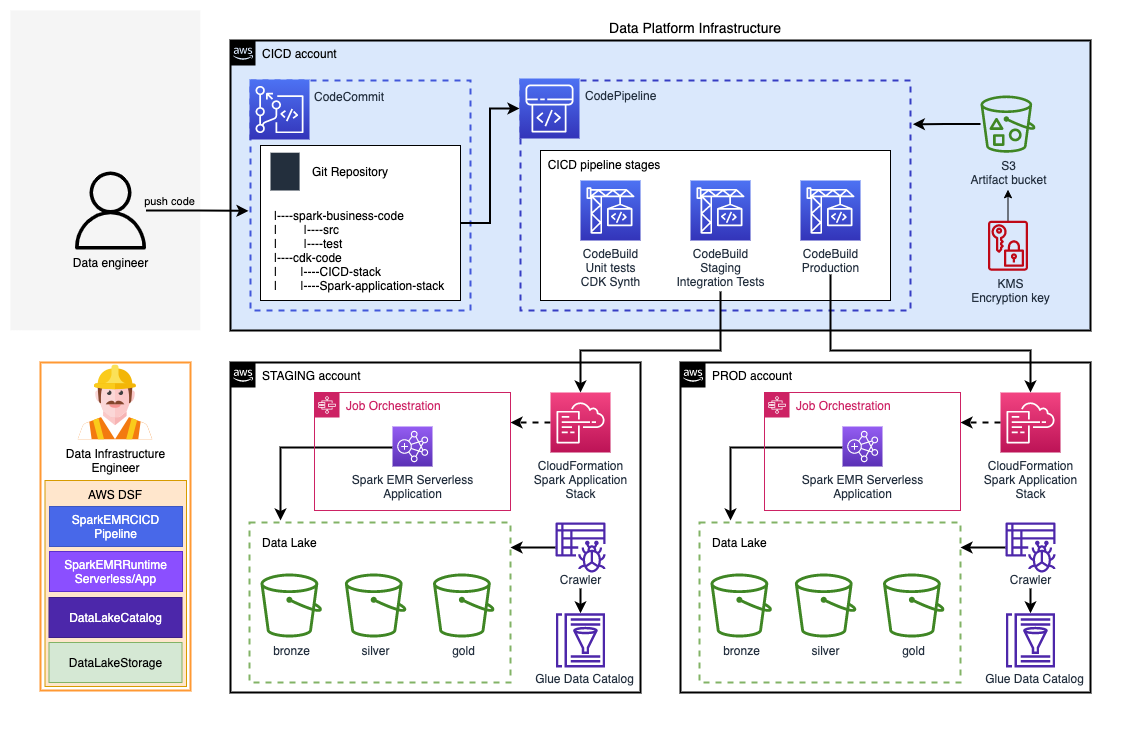
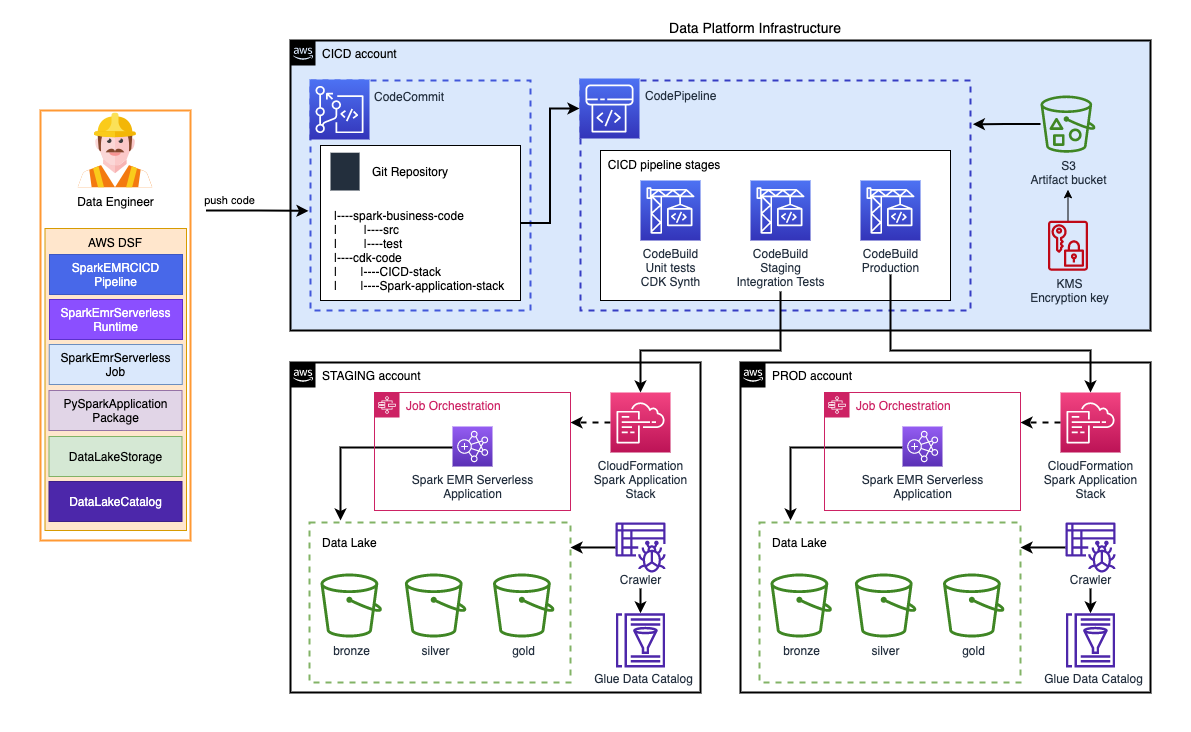
improve doc

diff --git a/website/docs/constructs/library/spark-emr-serverless-job.md b/website/docs/constructs/library/spark-emr-serverless-job.md
@@ -1,22 +1,20 @@
 ---
 sidebar_position: 6
-sidebar_label: Spark Job
+sidebar_label: Spark EMR Serverless Job
 ---
 
-# Spark job
+# Spark EMR Serverless job
 
-A construct to create a Spark job that is orchestrated through AWS Step Functions state machine. The state machine can submit a job with either [Amazon EMR on EKS](https://docs.aws.amazon.com/emr/latest/EMR-on-EKS-DevelopmentGuide/getting-started.html) or [Amazon EMR Serverless](https://docs.aws.amazon.com/emr/latest/EMR-Serverless-UserGuide/getting-started.html). 
+An [Amazon EMR Serverless](https://docs.aws.amazon.com/emr/latest/EMR-Serverless-UserGuide/getting-started.html) Spark job orchestrated through AWS Step Functions state machine. 
 
 ## Overview
 
 The construct creates an AWS Step Functions state machine that is used to submit a Spark job and orchestrate the lifecycle of the job. The construct leverages the [AWS SDK service integrations](https://docs.aws.amazon.com/step-functions/latest/dg/supported-services-awssdk.html) to submit the jobs. The state machine can take a cron expression to trigger the job at a given interval. The schema below shows the state machine:
 
 
-![Spark Job State Machine](../../../static/img/adsf-spark-job-statemachine.svg)
+![Spark EMR Serverless Job](../../../static/img/adsf-spark-emr-serverless-job.png)
 
 ## Usage
-
-### Define an EMR Serverless Spark Job
 
 The example stack below shows how to use `EmrServerlessSparkJob` construct. The stack also contains a `SparkEmrServerlessRuntime` to show how to create an EMR Serverless Application and pass it as an argument to the `Spark job` and use it as a runtime for the job. 
 ```python
@@ -77,45 +75,5 @@ class NightlyJobStack(Stack):
         nightly_job = EmrServerlessSparkJob (scope=scope, id='nightly_job', props=nightly_job_props)
 
         CfnOutput(scope=scope, id='job-state-machine', value=nightly_job.state_machine.state_machine_arn )
-
-```
-
-
-### Define an EMR on EKS Spark Job
-
-The stack defined below shows a usage example of the `EmrOnEksSparkJob` construct.
-
-```python
-
-from aws_cdk import (
-    CfnOutput,
-    Stack,
-)
-from constructs import Construct
-from aws_dsf import ( 
-    EmrOnEksSparkJob,
-    EmrOnEksSparkJobProps
-)
-
-class DailyJobStack(Stack):
-
-    def __init__(self, scope: Construct, construct_id: str, **kwargs) -> None:
-        super().__init__(scope, construct_id, **kwargs)
-
-
-        daily_job_props = EmrOnEksSparkJobProps (
-            name='daily_job',
-            virtual_cluster_id='exampleId123',
-            execution_role_arn='your-role-arn',
-            execution_timeout_minutes='30',
-            s3_log_uri='s3://emr-job-logs-EXAMPLE/logs',
-            spark_submit_entry_point= 'local:///usr/lib/spark/examples/src/main/python/pi.py',
-            spark_submit_parameters= '--conf spark.executor.instances=2 --conf spark.executor.memory=2G --conf spark.driver.memory=2G --conf spark.executor.cores=4'
-        )
-        
-        
-        daily_job = EmrOnEksSparkJob (scope=scope, id='nightly_job', props=daily_job_props)
-
-        CfnOutput(scope=scope, id='job-state-machine-daily-job', value=daily_job.state_machine.state_machine_arn )
 
 ```

diff --git a/website/docs/examples/spark-data-lake.md b/website/docs/examples/spark-data-lake.md
@@ -1,0 +1,31 @@
+---
+sidebar_position: 2
+sidebar_label: Spark Data Lake example
+---
+
+# Spark Data Lake
+
+Build a data lake, and process data with Spark.
+
+This example demonstrates the benefits of reusing AWS DSF components to remove undifferentiated infrastructure setup and maintenance tasks from data engineers so they can focus on business use cases and extracting value from data.
+
+In this example, we will be using AWS DSF to quickly build an end-to-end solution to store and process the data. The solution is production-ready, with local development compatiblity and a multi-environment CICD pipeline (staging, production) for deployment. 
+The business use case implemented within the Spark application is a simple aggregation pipeline processing NYC Taxi dataset but it could use any business logic.
+
+**This is what we will build in minutes and less than one hundred lines of codes!** Starting from scratch would require days and thousands of lines of code.
+
+![Spark Data Lake](../../static/img/spark-data-lake.png)
+
+
+We will be using several constructs from the AWS DSF:
+- [`DataLakeStorage`](/docs/constructs/library/data-lake-storage)
+- [`DataLakeCatalog`](/docs/constructs/library/data-lake-catalog)
+- [`SparkEmrServerlessRuntime`](/docs/constructs/library/spark-emr-serverless-runtime)
+- [`SparkEmrServerlessJob`](/docs/constructs/library/spark-job)
+- [`SparkEmrCICDPipeline`](/docs/constructs/library/spark-cicd-pipeline)
+- [`ApplicationStackFactory`](/docs/constructs/library/spark-cicd-pipeline#defining-a-cdk-stack-for-the-spark-application)
+- [`PySparkApplicationPackage`](/docs/constructs/library/pyspark-application-package)
+
+## Deployment guide
+
+You can follow the [deployment guide](https://github.com/awslabs/aws-data-solutions-framework/tree/main/examples/spark-data-lake) from AWS DSF GitHub repo to deploy the solution.

diff --git a/website/docs/constructs/library/spark-emr-serverless-runtime.md b/website/docs/constructs/library/spark-emr-serverless-runtime.md
@@ -5,11 +5,11 @@ sidebar_label: Spark EMR Serverless Runtime
 
 # Spark EMR Serverless Runtime
 
-A construct to create a [Spark EMR Serverless Application](https://docs.aws.amazon.com/emr/latest/EMR-Serverless-UserGuide/getting-started.html), along with methods to grant a principal (ie IAM Role or IAM User) the right to start an EMR Serverless job as well as method to create an IAM execution that is assumed by EMR Serverless to execute job. 
+A [Spark EMR Serverless Application](https://docs.aws.amazon.com/emr/latest/EMR-Serverless-UserGuide/getting-started.html) with IAM roles and permissions helpers. 
 
 ## Overview
 
-The construct provides a method to create a Spark EMR Serverless Application, with the latest EMR runtime as the default runtime. You can change the runtime by passing your own as a `Resource property` to construct initializer.
+The construct creates a Spark EMR Serverless Application, with the latest EMR runtime as the default runtime. You can change the runtime by passing your own as a `Resource property` to construct initializer. It also provides methods to create a principal or grant an existing principal (ie IAM Role or IAM User) with the permission to start a job on this EMR Serverless application.
 
 The construct creates a default VPC that is used by EMR Serverless Application. The VPC has `10.0.0.0/16` CIDR range, and comes with an S3 VPC Endpoint Gateway attached to it. The construct also creates a security group for the EMR Serverless Application. You can override this by defining your own `NetworkConfiguration` as defined in the `Resource properties` of the construct initializer.
 

diff --git a/README.md b/README.md
@@ -2,7 +2,7 @@
 
 ![ADSF logo](website/static/img/adsf-logo-light.png)
 
-AWS Data Solutions Framework (AWS DSF) is a framework for implementation and delivery of analytics solutions with built-in AWS best practices. AWS DSF is an abstraction atop AWS services based on [AWS Cloud Development Kit](https://aws.amazon.com/cdk/) (CDK) [L3 constructs](https://docs.aws.amazon.com/cdk/v2/guide/constructs.html), packaged as a library.
+AWS Data Solutions Framework (AWS DSF) is a framework for implementation and delivery of data solutions with built-in AWS best practices. AWS DSF is an abstraction atop AWS services based on [AWS Cloud Development Kit](https://aws.amazon.com/cdk/) (CDK) [L3 constructs](https://docs.aws.amazon.com/cdk/v2/guide/constructs.html), packaged as a library.
 
 You can leverage AWS DSF to implement your data platform in weeks rather than in months.
 

diff --git a/framework/API.md b/framework/API.md
@@ -2,7 +2,7 @@
 
 ![ADSF logo](../website/static/img/adsf-logo-light.png)
 
-AWS Data Solutions Framework (AWS DSF) is a framework for implementation and delivery of analytics solutions with built-in AWS best practices. AWS DSF is an abstraction atop AWS services based on [AWS Cloud Development Kit](https://aws.amazon.com/cdk/) (CDK) L3 constructs, packaged as a library.
+AWS Data Solutions Framework (AWS DSF) is a framework for implementation and delivery of data solutions with built-in AWS best practices. AWS DSF is an abstraction atop AWS services based on [AWS Cloud Development Kit](https://aws.amazon.com/cdk/) (CDK) L3 constructs, packaged as a library.
 
 ➡ **More information on our [website](https://awslabs.github.io/aws-data-solutions-framework)**
 

diff --git a/framework/README.md b/framework/README.md
@@ -2,6 +2,6 @@
 
 ![ADSF logo](../website/static/img/adsf-logo-light.png)
 
-AWS Data Solutions Framework (AWS DSF) is a framework for implementation and delivery of analytics solutions with built-in AWS best practices. AWS DSF is an abstraction atop AWS services based on [AWS Cloud Development Kit](https://aws.amazon.com/cdk/) (CDK) L3 constructs, packaged as a library.
+AWS Data Solutions Framework (AWS DSF) is a framework for implementation and delivery of data solutions with built-in AWS best practices. AWS DSF is an abstraction atop AWS services based on [AWS Cloud Development Kit](https://aws.amazon.com/cdk/) (CDK) L3 constructs, packaged as a library.
 
 ➡ **More information on our [website](https://awslabs.github.io/aws-data-solutions-framework)**

diff --git a/website/docs/constructs/library/pyspark-application-package.md b/website/docs/constructs/library/pyspark-application-package.md
@@ -5,7 +5,7 @@ sidebar_label: PySpark Application Package
 
 # PySpark Application Package
 
-A construct to package your PySpark application with its dependencies and upload it to an Amazon S3 bucket.
+A PySpark application packaged with its dependencies and uploaded on an S3 artifact bucket.
 
 ## Overview
 

diff --git a/website/docs/examples/index.md b/website/docs/examples/index.md
@@ -1,5 +1,5 @@
 ---
-sidebar_position: 3
+sidebar_position: 1
 sidebar_label: Introduction
 ---
 
